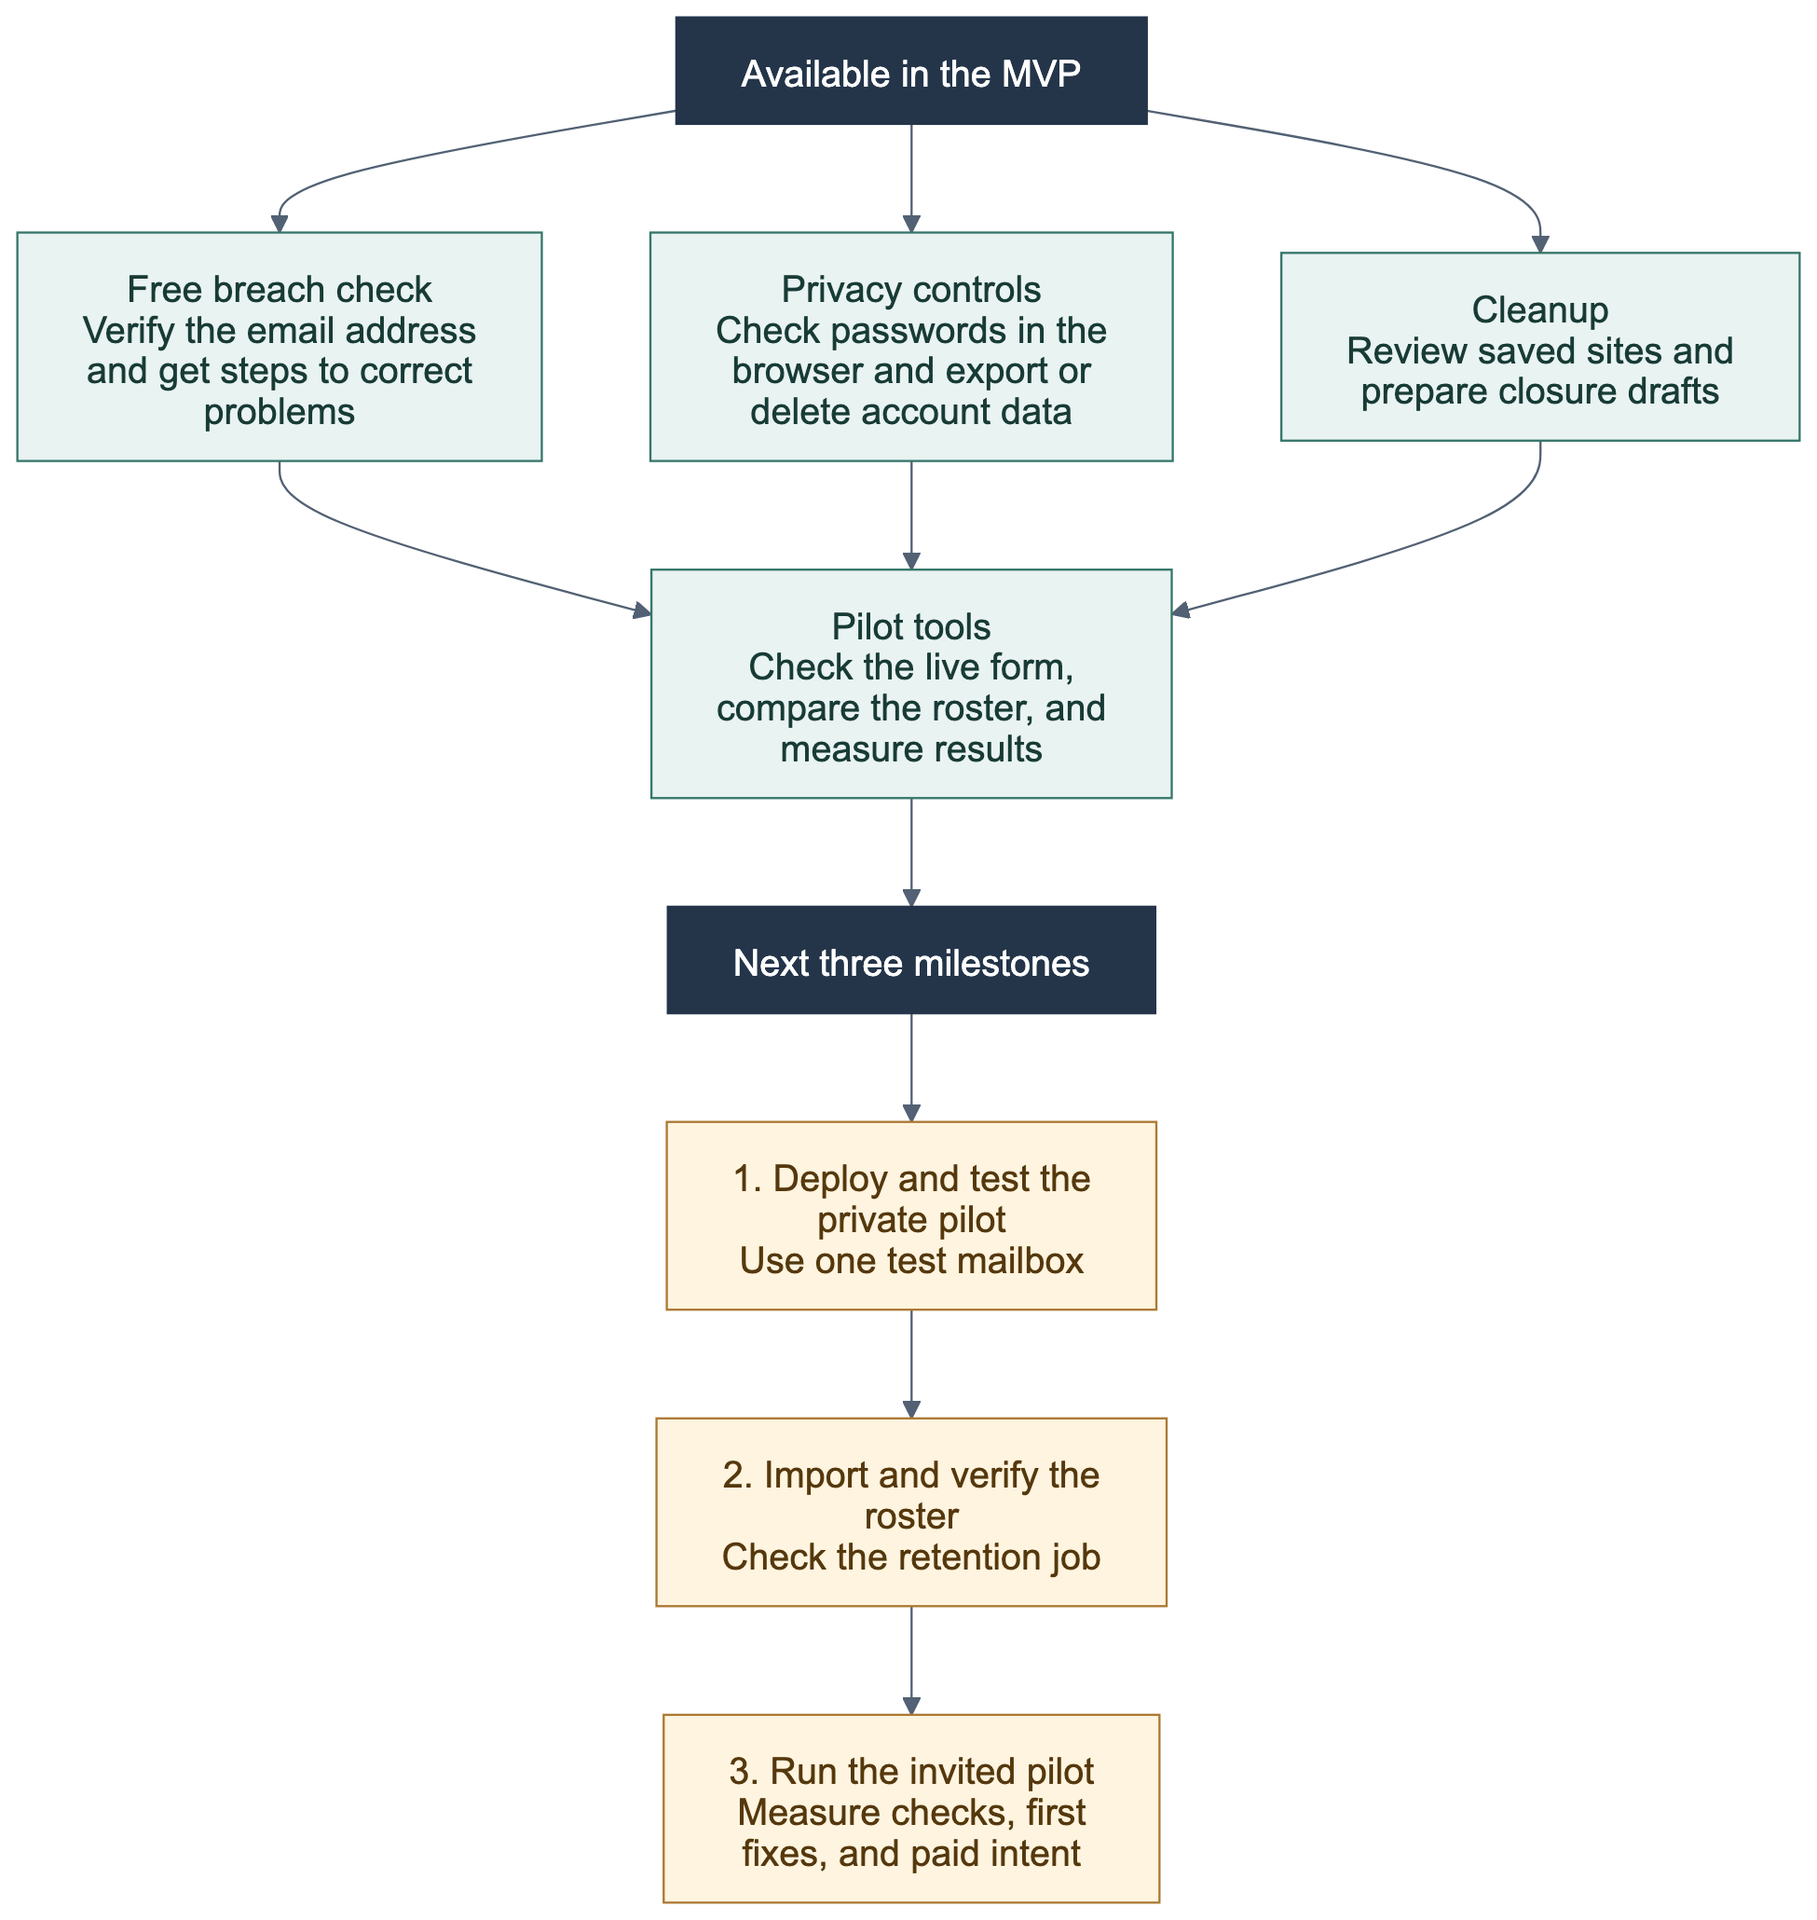
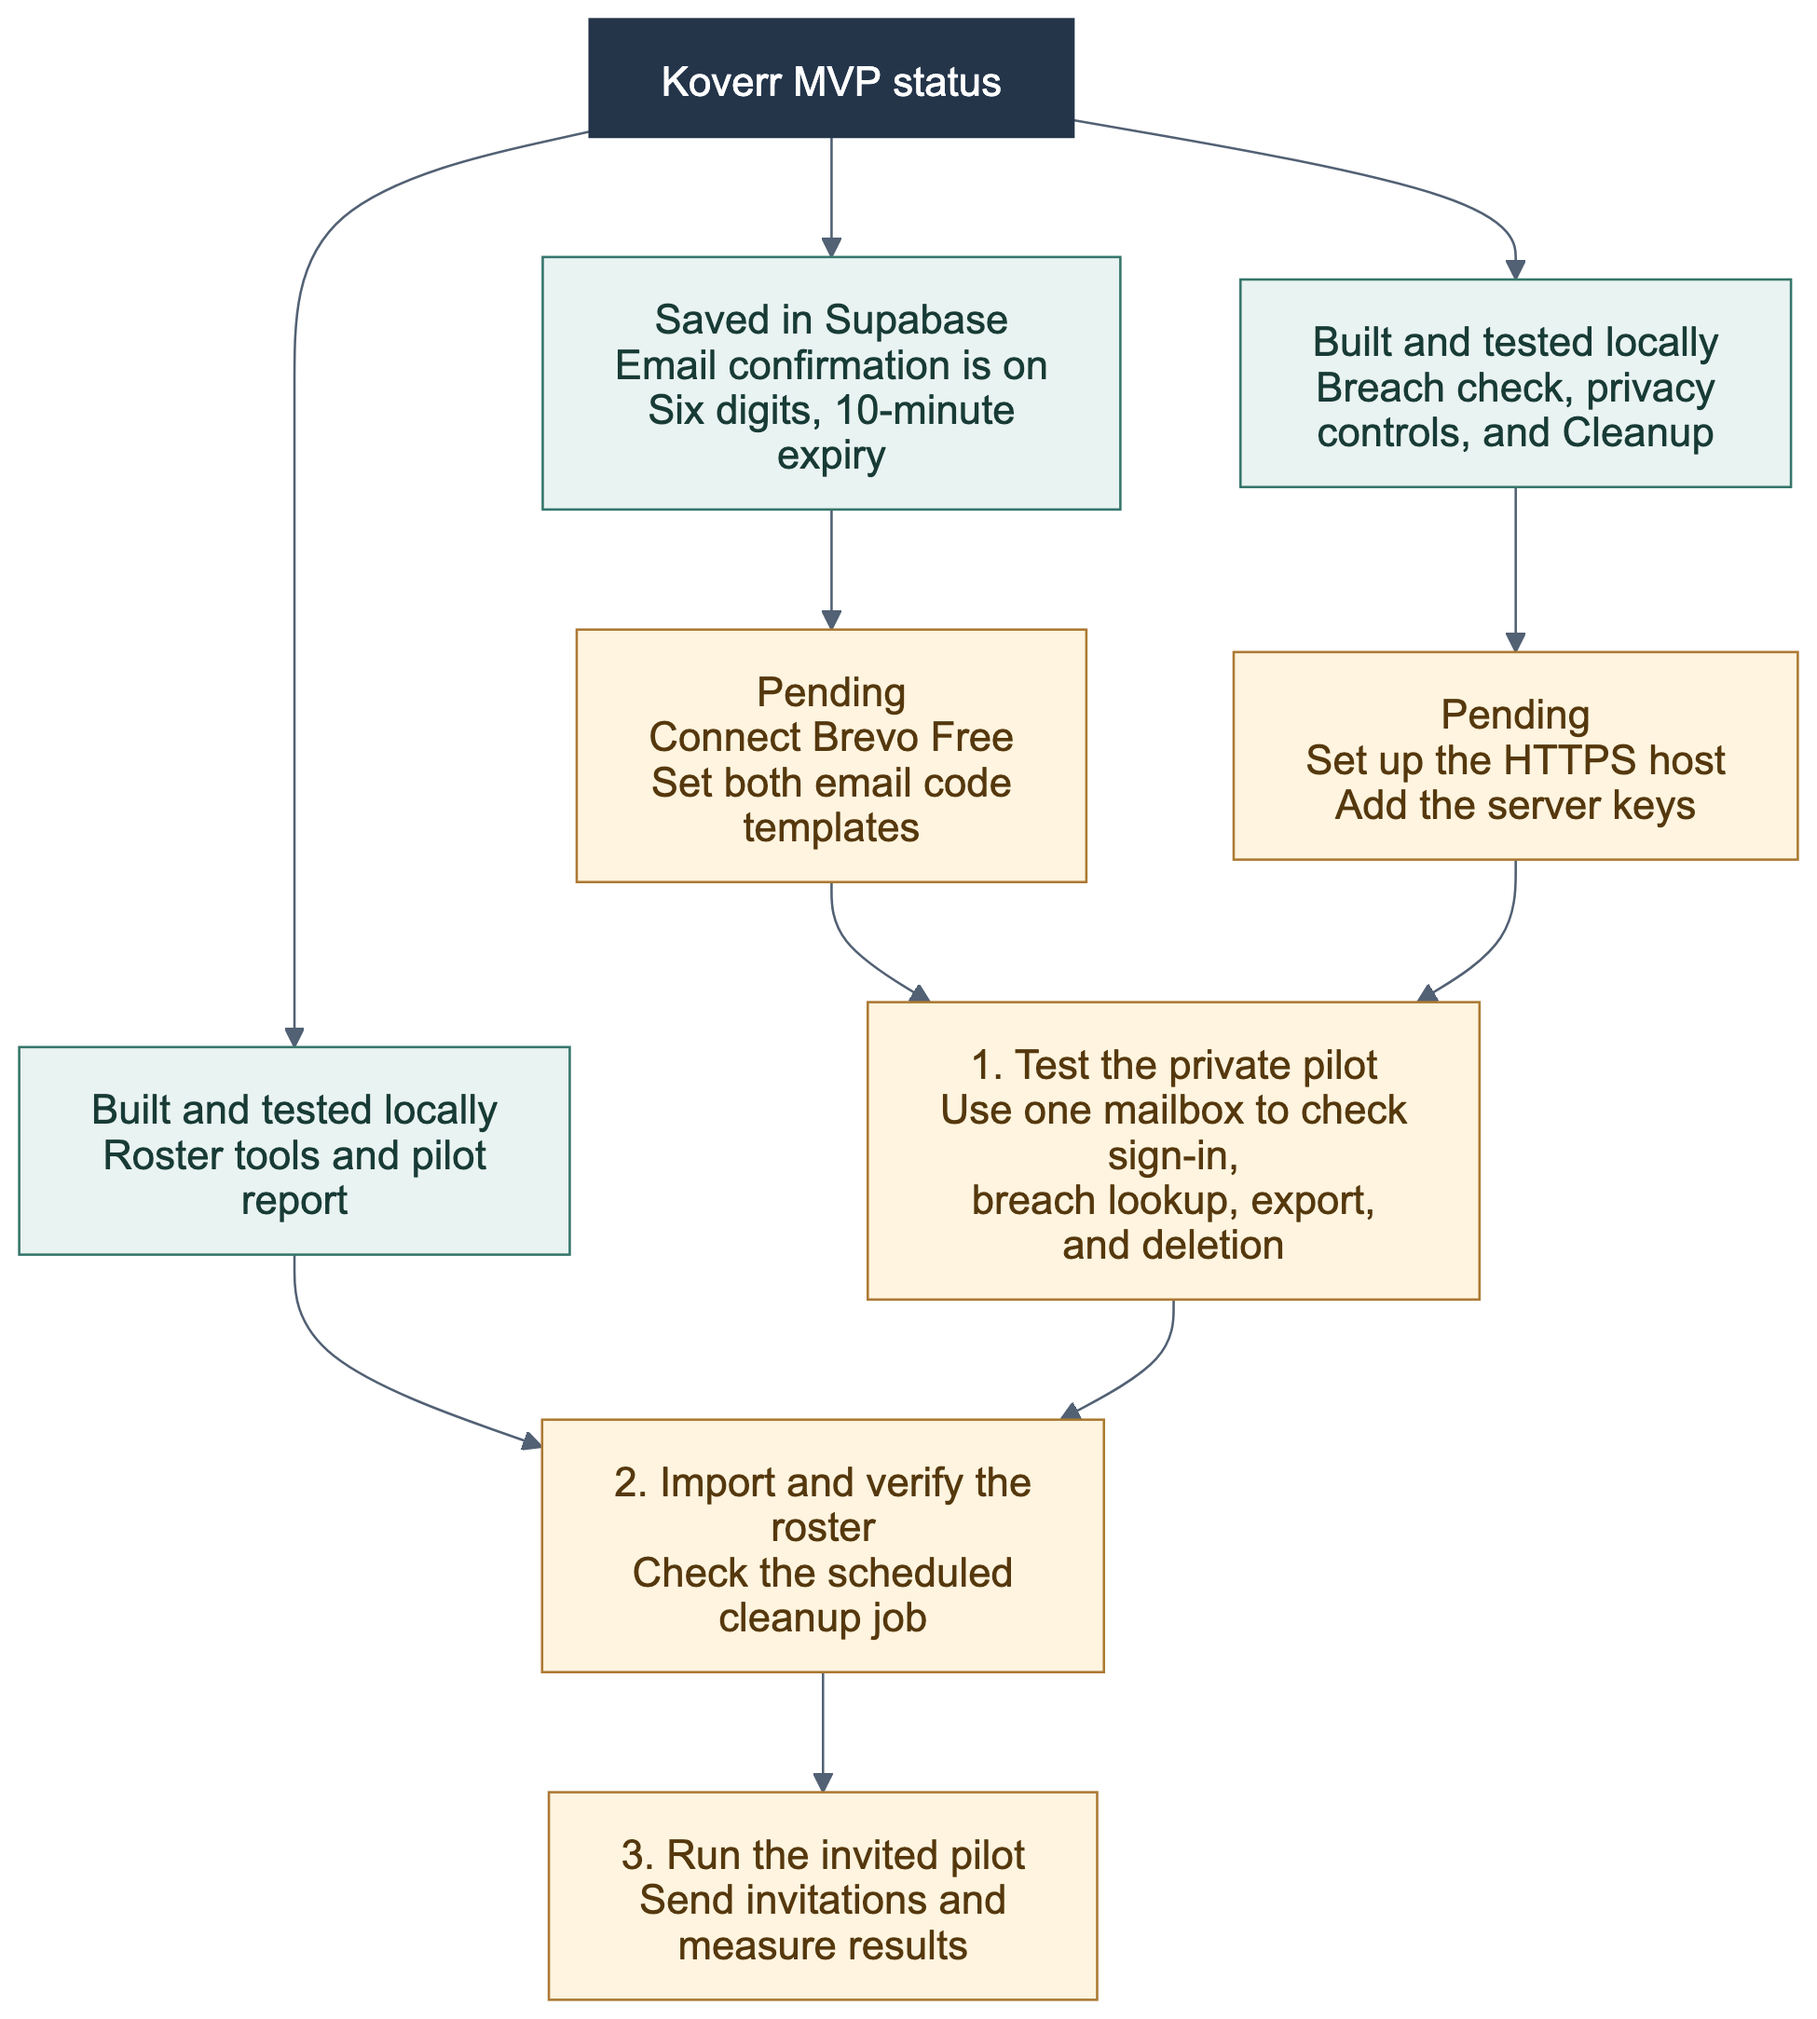
Update the pilot handover and milestone diagram

diff --git a/MVP/handover.md b/MVP/handover.md
@@ -87,10 +87,10 @@ All 27 automated tests passed. Astro diagnostics and the server build passed. Th
 
 The built route passed a headless Chromium walkthrough using test providers. The test covered a wrong code, verification, scan, completion, undo, export, and deletion. The database tests also covered scan retries, account isolation, pricing choices, Cleanup access, draft withdrawal, and cascading deletion. Have I Been Pwned returned a result for its documented test account. In a mobile browser, the password checker sent only the five-character prefix to the password service.
 
-## Next
+## Next three milestones
 
-1. Deploy the private pilot. Run the HTTPS check. Use one test mailbox to check code delivery, breach lookup, export, and account deletion.
-2. Export the reconciled roster from the landing host. Import it and verify the records. Schedule the email code counter cleanup and check the job status.
-3. Run the invited pilot. Measure completed checks, first fixes in seven days, and paid intent. Compare the results with G1 before you expand signup.
+1. **Deploy and test the private pilot.** Connect Brevo Free to Supabase. Set both email code templates. Set up the HTTPS host and add the server keys. Use one test mailbox to check code delivery, sign-in, breach lookup, export, and account deletion.
+2. **Import and verify the roster.** After the mailbox test passes, export the reconciled roster from the landing host. Run the import and verify the records. Schedule the email code counter cleanup. Confirm that the job succeeds.
+3. **Run the invited pilot.** Send the pilot invitations. Supabase sends the sign-in codes through Brevo. Measure completed checks, first fixes in seven days, and paid intent. Compare the results with G1 before you expand signup.
 
 Use the [build plan](../docs/07-validation-and-build-plan.md) for the paid Cleanup work after G1. Expand the directory of official guides. Get legal review of sending authority and templates before you add relay sending.
